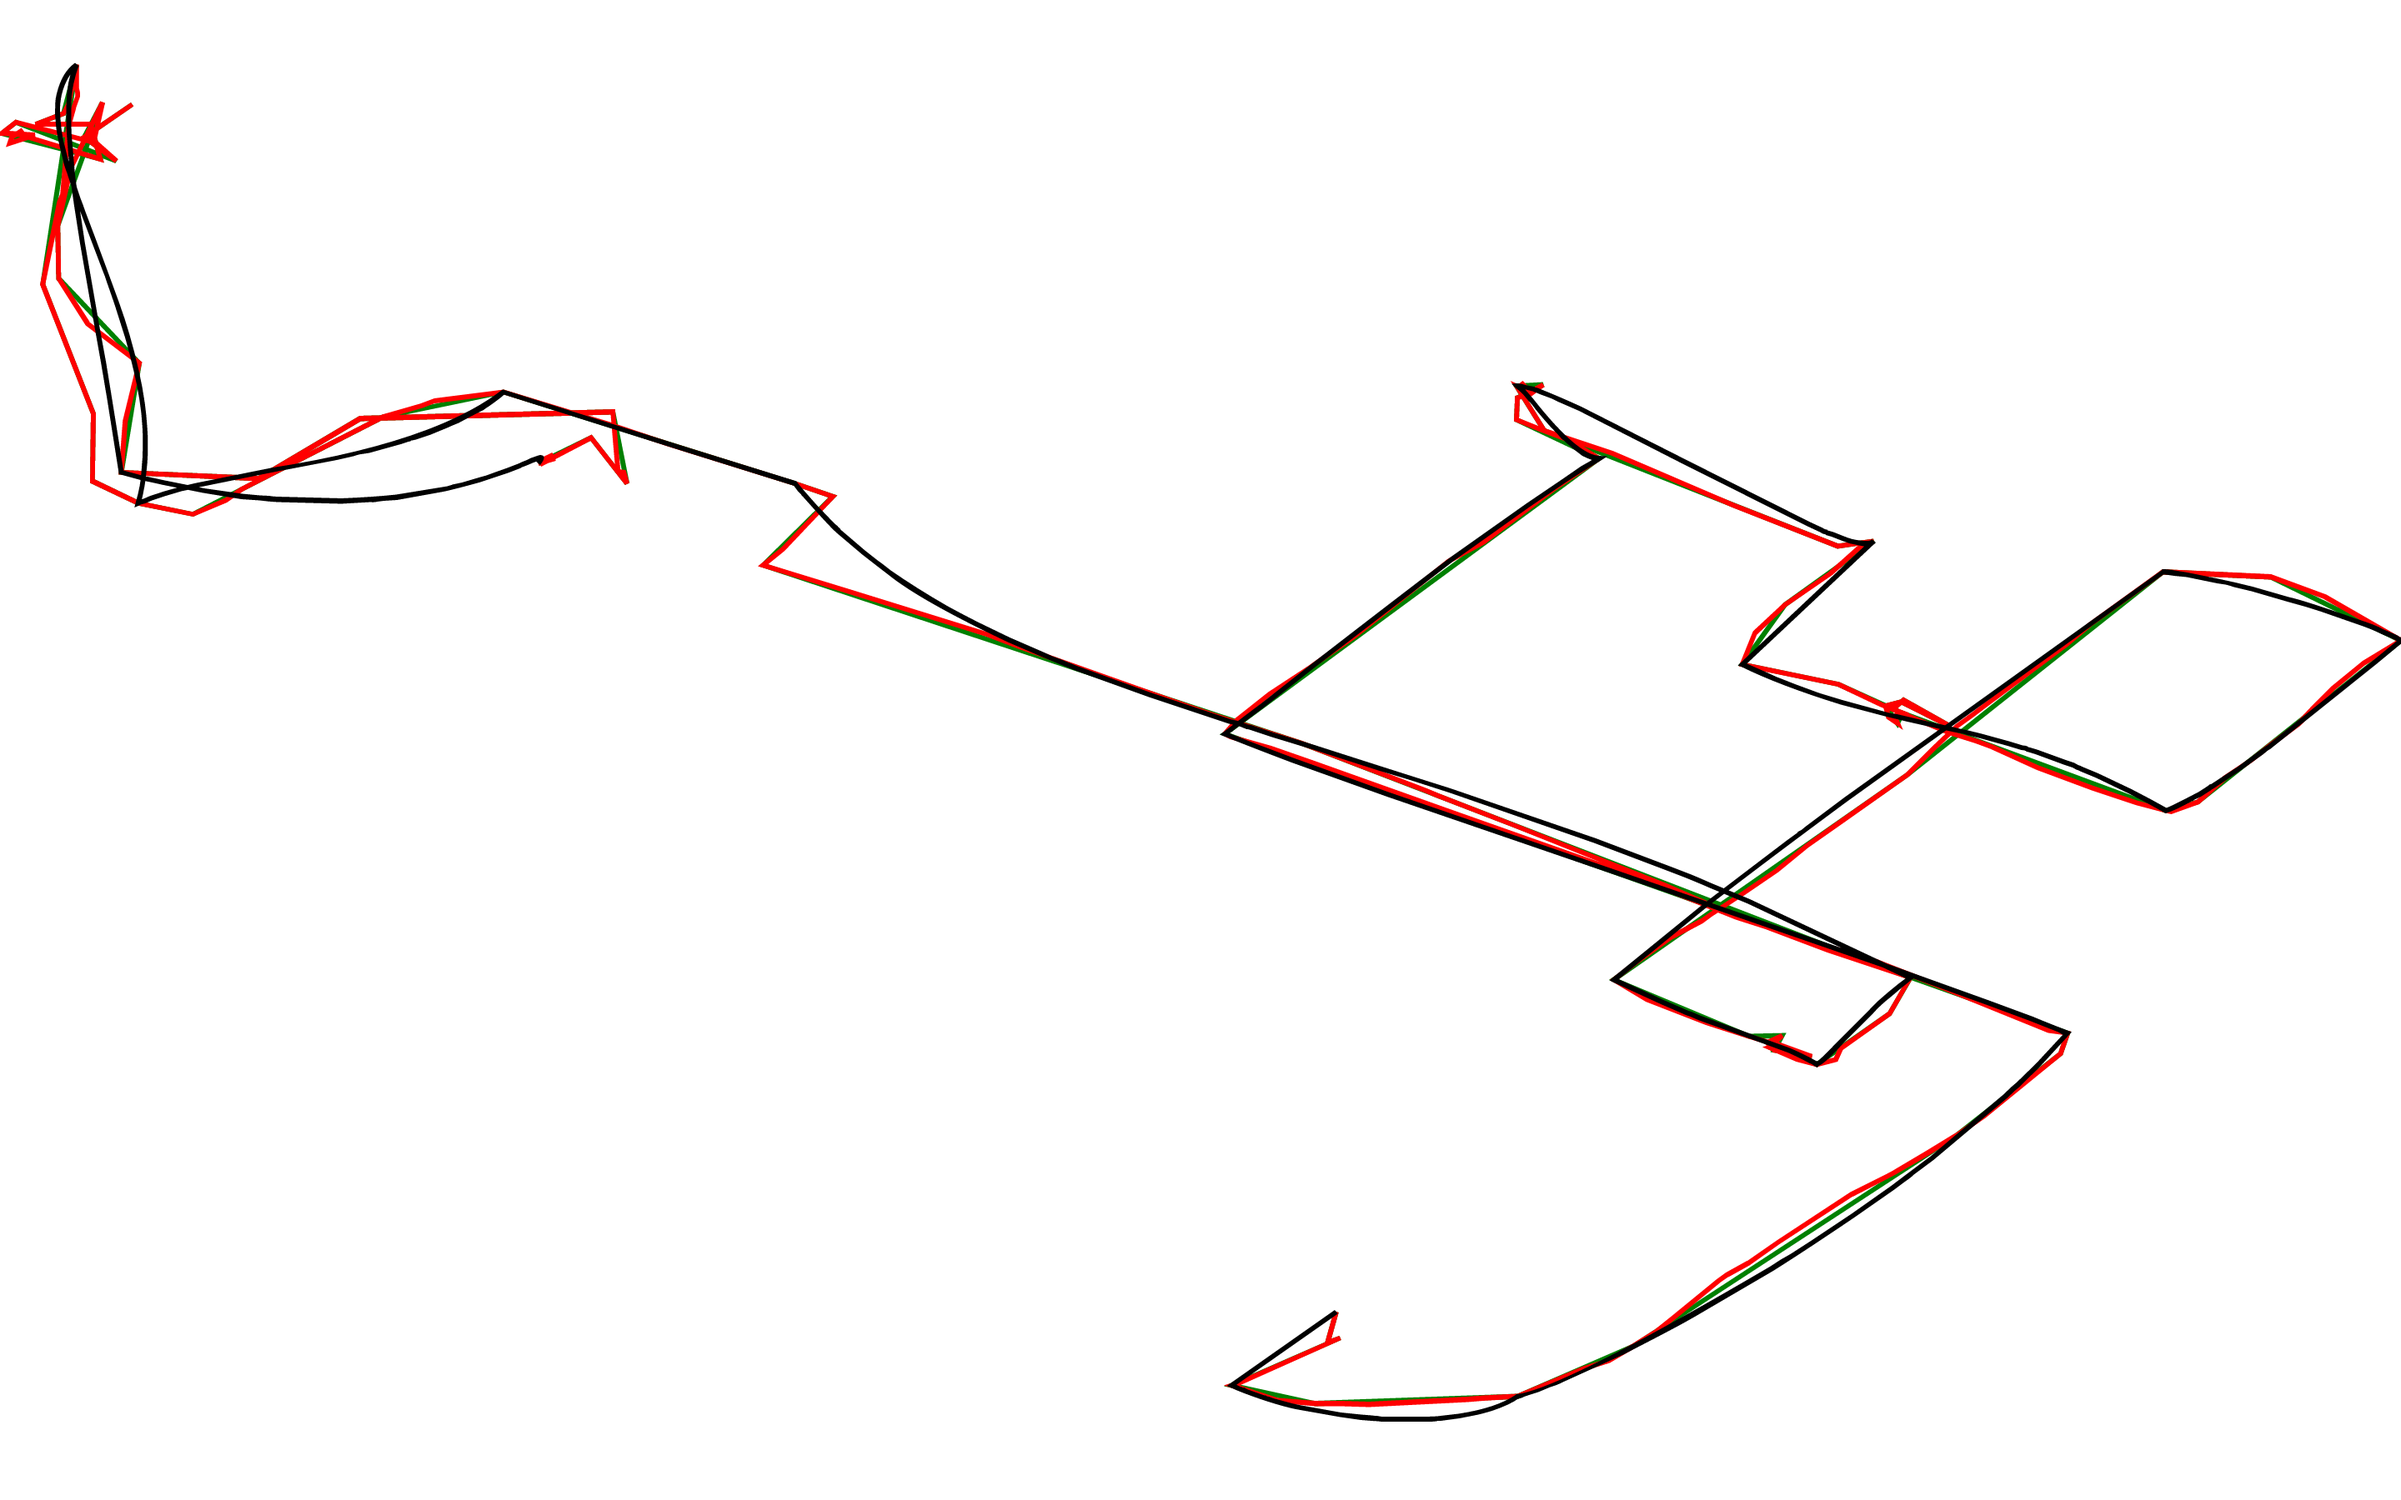
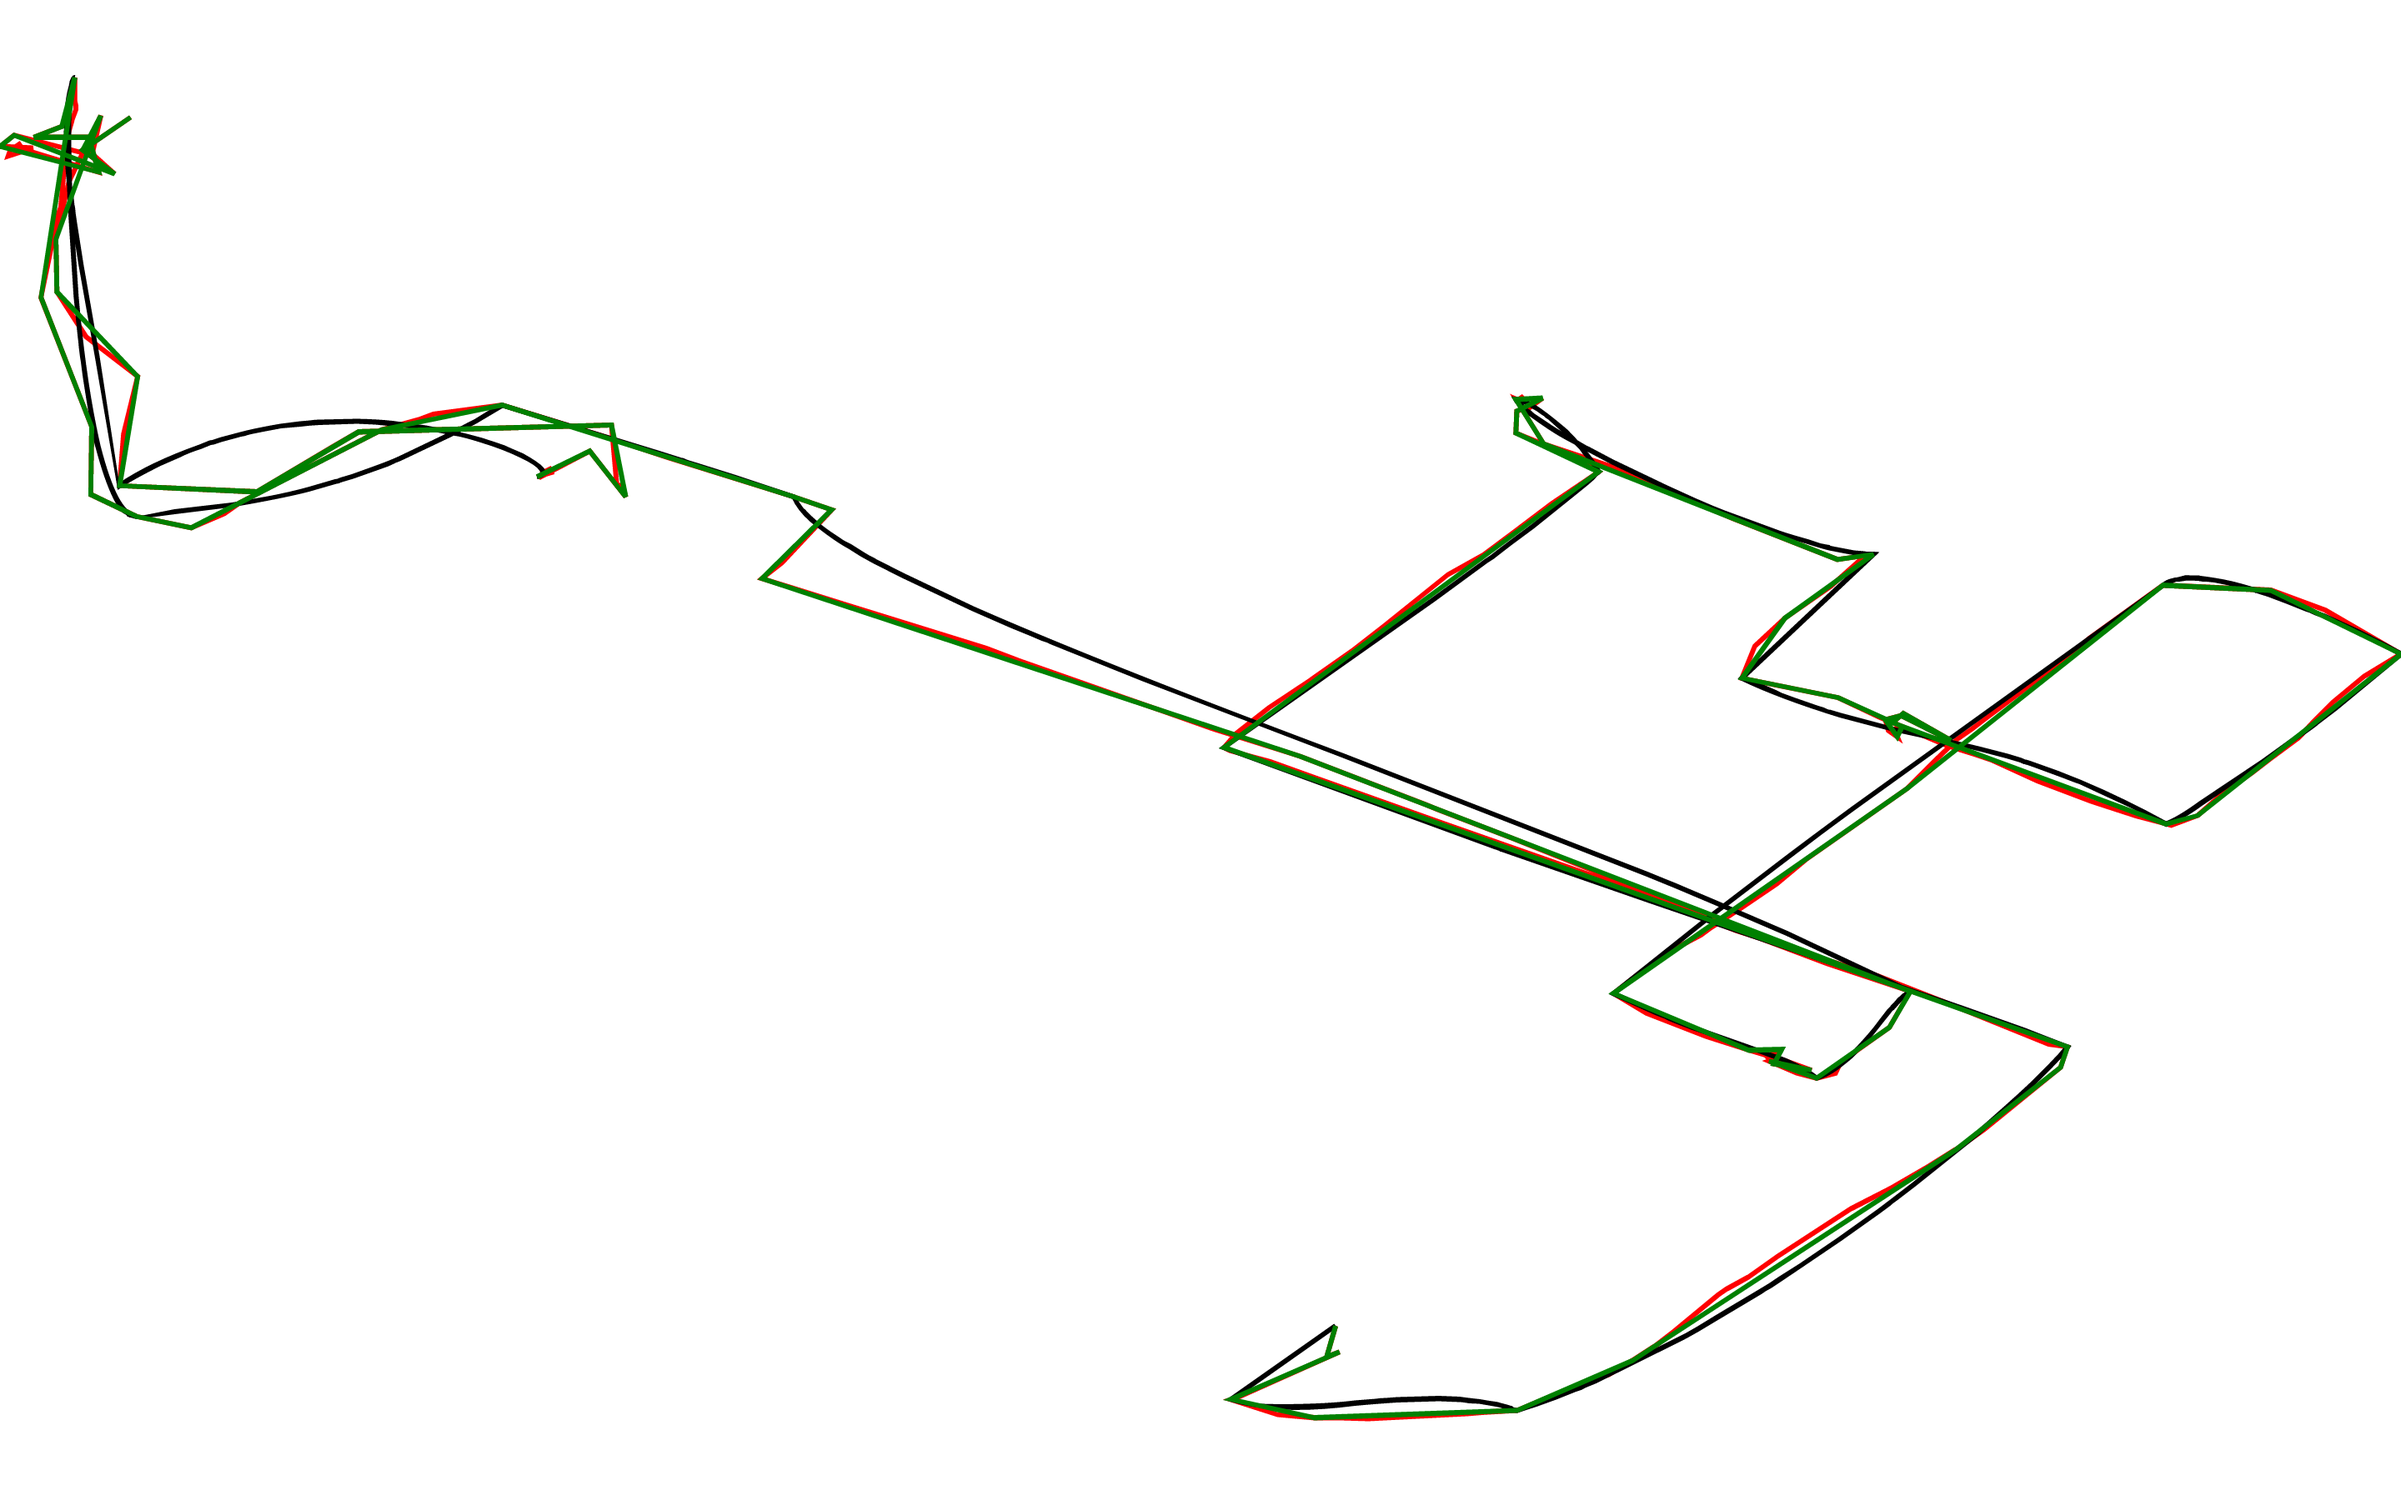
maxDistanceIndex is better indicator of midpoint of curve than haflIdx

diff --git a/src/lineStyles/ctBezier.js b/src/lineStyles/ctBezier.js
@@ -49,7 +49,7 @@ function computeHandle(skippedPointsGroup, anchorTangent, anchor, maxDistance) {
 
 var tolerance = 0.001;
 function douglasPeuckerBezier(points) {
-    var returnPoints, line, distance, maxDistance, maxDistanceIndex, i, point, lastPoint, anchorTangent, halfIdx, sliceHalfBiasCeil = false;
+    var returnPoints, line, distance, maxDistance, maxDistanceIndex, i, point, lastPoint, anchorTangent;
 
     if (points.length <= 2) {
         return [points[0]];
@@ -84,18 +84,11 @@ function douglasPeuckerBezier(points) {
         lastPoint = points[0].coordinates;
         point = points[points.length - 1].coordinates;
         anchorTangent = Math.atan2(point[1] - lastPoint[1], point[0] - lastPoint[0]);
-        if (sliceHalfBiasCeil) {
-            halfIdx = Math.ceil(points.length / 2);
-            sliceHalfBiasCeil = false;
-        } else {
-            halfIdx = Math.floor(points.length / 2);
-            sliceHalfBiasCeil = true;
-        }
 
         returnPoints = [{
             point: points[points.length - 1],
-            handle1: computeHandle(_.pluck(points.slice(0, halfIdx), 'coordinates'), anchorTangent, lastPoint, maxDistance),
-            handle2: computeHandle(_.pluck(points.slice(halfIdx, points.length), 'coordinates'), anchorTangent, point, maxDistance)
+            handle1: computeHandle(_.pluck(points.slice(0, maxDistanceIndex + 1), 'coordinates'), anchorTangent, lastPoint, maxDistance),
+            handle2: computeHandle(_.pluck(points.slice(maxDistanceIndex, points.length), 'coordinates'), anchorTangent, point, maxDistance)
         }];
     }
 

diff --git a/src/location.js b/src/location.js
@@ -18,9 +18,9 @@ var clientTargetMap = {};
 var svgCloseStr = '</svg>';
 var svgParts = ['<svg version="1.1" baseProfile="full" ', 'viewBox="', null, ' ', null, ' ', null, ' ', null, '" width="100%" height="100%" xmlns="http://www.w3.org/2000/svg">', svgCloseStr];
 var activeLineStyles = [
-    ['douglasPeucker', 'green'],
     ['raw', 'red'],
     ['ctBezier', 'black'],
+    ['douglasPeucker', 'green'],
 ];
 
 var viewBoxLength = 43; // ex: `179.999999 179.999999 179.999999 179.999999`
